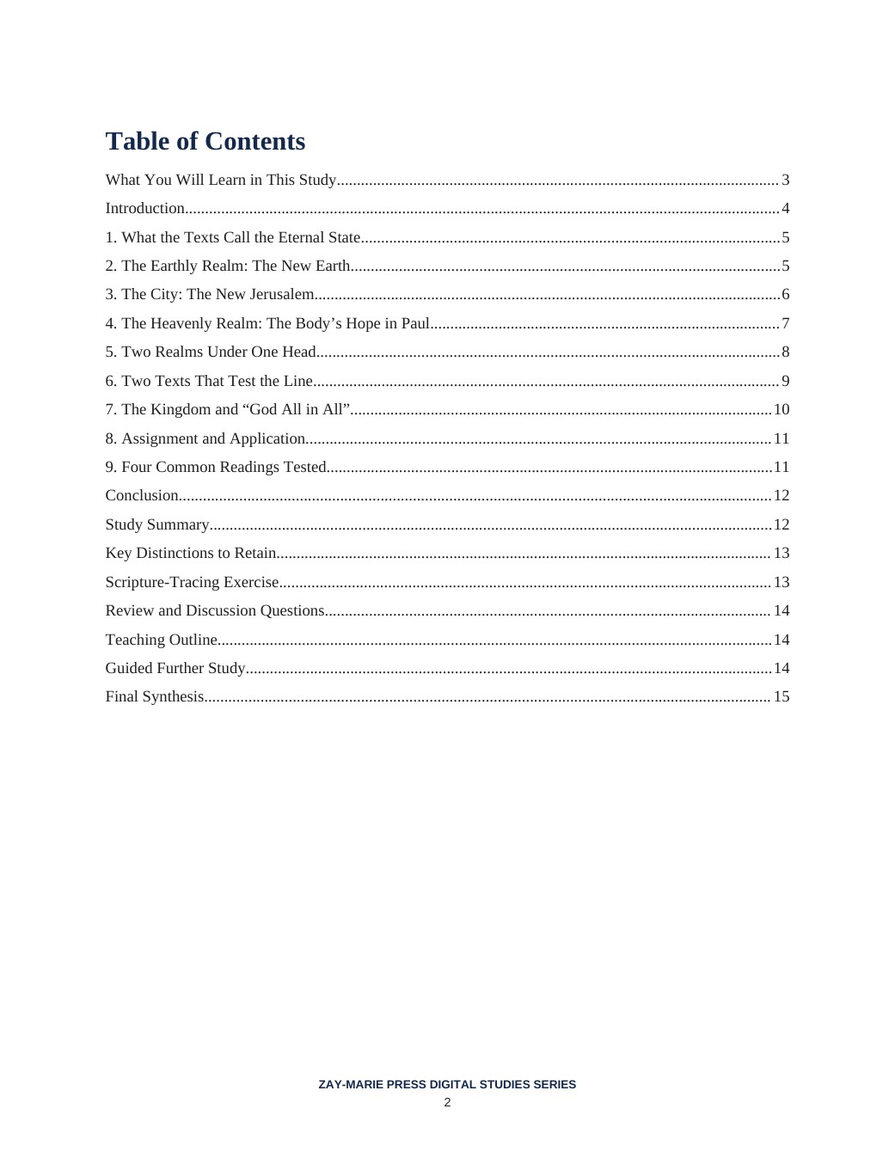
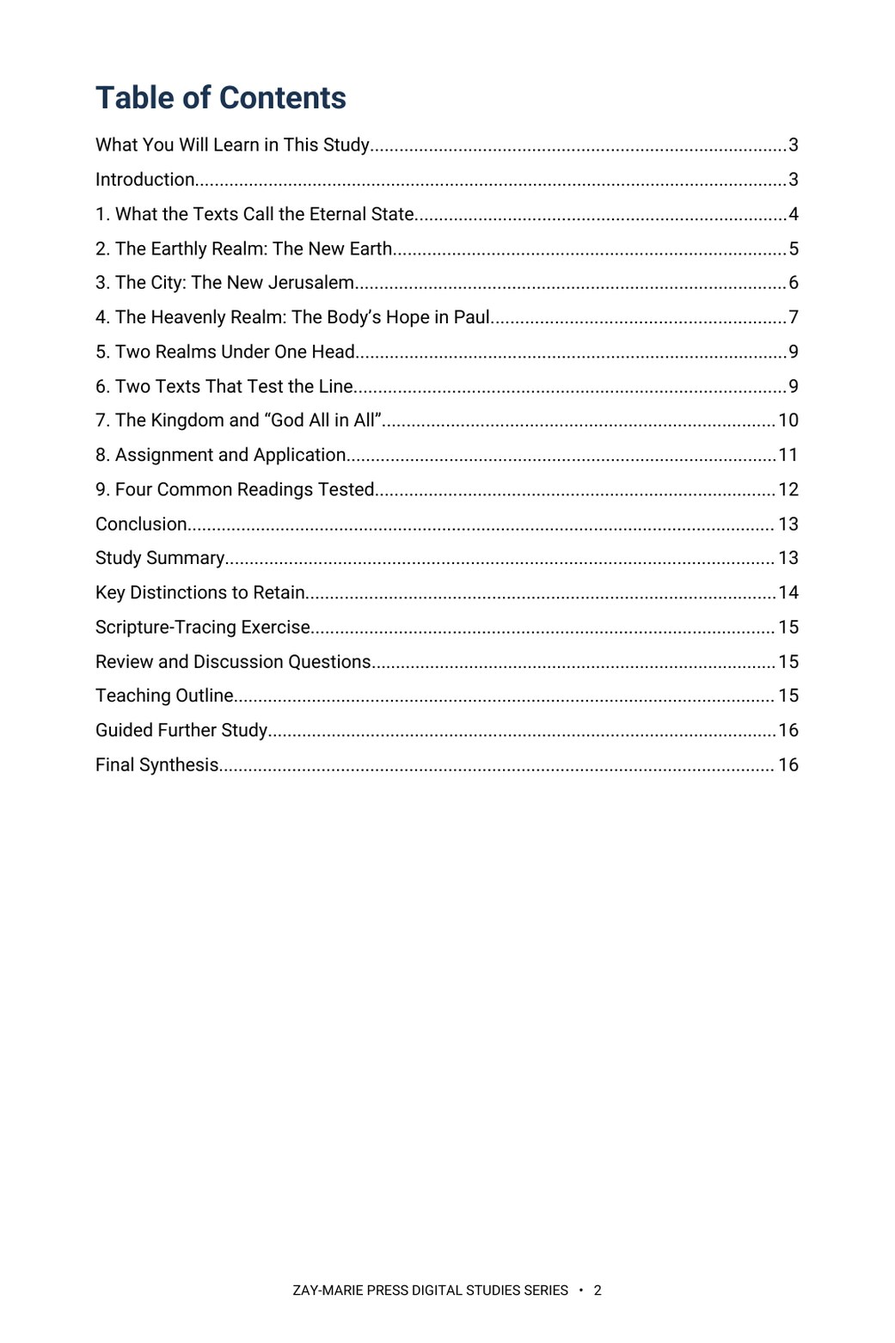
Study 69: rebuilt in Roboto at 10 pt, 17 pages; previews and trackers updated
Claude-Session: https://claude.ai/code/session_01HC7bs9KYP2scp4hCL6DkTp

diff --git a/study-69-the-eternal-state.html b/study-69-the-eternal-state.html
@@ -1,13 +1,13 @@
 <!doctype html>
-<html lang="en"><head><meta charset="utf-8"><meta name="viewport" content="width=device-width,initial-scale=1"><title>The Eternal State | Zay-Marie Press</title><meta name="description" content="Study 69 examines the eternal state — the new earth, the New Jerusalem, and the Body’s heavenly hope — asking where Scripture places Israel and the Body, what each passage states, and how the two realms are joined under Christ. Preview the 16-page digital study."><link rel="stylesheet" href="styles.css?v=20260921-4"><link rel="icon" type="image/png" href="assets/zay-marie-press-favicon.png"><style>
+<html lang="en"><head><meta charset="utf-8"><meta name="viewport" content="width=device-width,initial-scale=1"><title>The Eternal State | Zay-Marie Press</title><meta name="description" content="Study 69 examines the eternal state — the new earth, the New Jerusalem, and the Body’s heavenly hope — asking where Scripture places Israel and the Body, what each passage states, and how the two realms are joined under Christ. Preview the 17-page digital study."><link rel="stylesheet" href="styles.css?v=20260921-4"><link rel="icon" type="image/png" href="assets/zay-marie-press-favicon.png"><style>
 .study-detail-page{background:#fff;color:#252525}.detail-hero{background:linear-gradient(135deg,#f8f5ec,#e3ece2);padding:58px 0}.detail-hero-grid{display:grid;grid-template-columns:minmax(250px,.72fr) minmax(0,1.28fr);gap:58px;align-items:center}.detail-cover{max-width:390px;margin:auto}.detail-cover img{display:block;width:100%;height:auto;box-shadow:0 14px 36px rgba(8,45,69,.18)}.detail-hero h1{font-size:clamp(2.7rem,5vw,4.7rem);line-height:1.02;margin:8px 0 10px;color:#143823}.detail-subtitle{font-family:Georgia,serif;font-size:1.35rem;font-weight:700;color:#082d45;margin:0 0 7px}.detail-kicker{font-family:Georgia,serif;font-style:italic;font-size:1.05rem;color:#4a4a44;margin:0 0 22px}.detail-copy{font-size:1.08rem;line-height:1.65;max-width:760px}.detail-buyline{display:flex;align-items:center;gap:18px;flex-wrap:wrap;margin-top:25px}.detail-price{font-family:Georgia,serif;font-size:2rem;font-weight:700;color:#143823}.detail-format,.preview-card .page-no{font-family:Arial,sans-serif;font-size:.76rem;font-weight:700;letter-spacing:.1em;text-transform:uppercase;color:#176b3a}.detail-button{display:inline-block;background:#176b3a;color:#fff;padding:13px 22px;font-family:Arial,sans-serif;font-size:.8rem;font-weight:700;letter-spacing:.07em;text-transform:uppercase}.detail-button.pending{opacity:.72;cursor:default}.detail-section{padding:66px 0}.detail-section.soft{background:#f6f7f2}.detail-section.cream{background:#faf8f2}.detail-section h2{color:#143823;margin:6px 0 18px;font-size:clamp(2rem,3.4vw,3rem)}.detail-section .lead{max-width:920px;font-size:1.1rem;line-height:1.62}.study-distinction{max-width:920px;margin-top:28px;margin-bottom:28px;padding:26px 28px;background:#fff;border:1px solid #d8d1bf;border-left:4px solid #b8871c}.study-distinction h3{margin:0 0 10px;color:#143823}.study-distinction p{margin:0 0 14px;line-height:1.62}.study-distinction a{font-family:Arial,sans-serif;font-weight:700;color:#176b3a;text-decoration:none}.study-points{display:grid;grid-template-columns:repeat(3,1fr);gap:18px;margin-top:28px;margin-bottom:28px}.study-point,.scripture-card,.preview-card,.include-item{background:#fff;border:1px solid var(--line);text-align:left}.study-point{border-top:3px solid #176b3a;padding:22px}.study-point h3{color:#143823;margin:0 0 8px;font-size:1.2rem}.study-point p,.scripture-card p,.preview-card p,.include-item p{margin:0;line-height:1.55}.scripture-grid{display:grid;grid-template-columns:repeat(4,1fr);gap:14px;margin-top:24px;margin-bottom:24px}.scripture-card{padding:22px 20px;color:#143823}.scripture-card h3{margin:0 0 9px;font-family:Georgia,serif;font-size:1rem;line-height:1.35}.scripture-card p{font-size:.94rem;color:#45453f}.excerpt{max-width:900px;margin:28px auto;border-left:4px solid #b8871c;padding:10px 0 10px 28px}.excerpt blockquote{font-family:Georgia,serif;font-size:clamp(1.45rem,2.5vw,2rem);line-height:1.45;color:#143823;margin:0 0 16px}.excerpt p{line-height:1.6;margin:0}.preview-grid{display:grid;grid-template-columns:repeat(2,1fr);gap:20px;margin-top:28px;margin-bottom:28px}.preview-card{padding:18px;min-height:210px;box-shadow:0 7px 20px rgba(20,40,25,.05)}.preview-image-link{display:block;margin:0 0 18px}.preview-image-link img{display:block;width:100%;height:auto;border:1px solid #d8d1bf;box-shadow:0 8px 22px rgba(20,40,25,.1);transition:transform .18s ease,box-shadow .18s ease}.preview-image-link:hover img{transform:translateY(-2px);box-shadow:0 11px 28px rgba(20,40,25,.16)}.preview-card h3{color:#143823;margin:8px 0 10px}.preview-instruction{margin:10px 0 0;font-family:Arial,sans-serif;font-size:.78rem;letter-spacing:.04em;color:#5b5b55}.includes-grid{display:grid;grid-template-columns:repeat(4,1fr);gap:14px;margin-top:26px}.include-item{padding:22px 20px;color:#143823}.include-item h3{margin:0 0 9px;font-family:Arial,sans-serif;font-size:.86rem;line-height:1.35;letter-spacing:.02em}.include-item p{font-size:.94rem;color:#45453f}.final-buy{background:#082d45;color:#fff;border-top:4px solid #b8871c;padding:42px 48px;display:grid;grid-template-columns:1fr auto;gap:36px;align-items:center}.final-buy .eyebrow,.final-buy h2,.final-buy .detail-price{color:#fff}.final-buy h2{margin:7px 0 6px}.final-buy p{margin:0}.final-offer{text-align:center}.back-link{display:inline-block;margin-top:18px;color:#143823;font-family:Arial,sans-serif;font-weight:700;text-decoration:none}.preview-lightbox{position:fixed;inset:0;z-index:10000;display:none;align-items:flex-start;justify-content:center;background:rgba(8,22,16,.88);padding:24px;overflow:auto}.preview-lightbox.open{display:flex}.preview-lightbox img{display:block;width:auto;height:auto;max-width:none;box-shadow:0 18px 55px rgba(0,0,0,.4);background:#fff}.preview-lightbox-close{position:fixed;top:18px;right:24px;z-index:10001;width:46px;height:46px;border:1px solid rgba(255,255,255,.65);border-radius:50%;background:rgba(0,0,0,.55);color:#fff;font:32px/1 Arial,sans-serif;cursor:pointer}@media(max-width:900px){.detail-hero-grid{grid-template-columns:1fr;gap:34px}.detail-cover{max-width:330px}.study-points{grid-template-columns:repeat(2,1fr)}.scripture-grid,.includes-grid{grid-template-columns:repeat(2,1fr)}.preview-grid,.final-buy{grid-template-columns:1fr}.final-offer{text-align:left}}@media(max-width:560px){.detail-hero{padding:42px 0}.detail-section{padding:50px 0}.study-points,.scripture-grid,.includes-grid{grid-template-columns:1fr}.final-buy{padding:32px 24px}.detail-buyline{align-items:flex-start;flex-direction:column;gap:8px}.preview-lightbox{padding:58px 10px 24px}.preview-lightbox img{width:100%;max-width:100%;height:auto}} .detail-hero h1{font-size:clamp(2.1rem,4.2vw,3.7rem);line-height:1.08}</style></head><body class="study-detail-page">
-<header class="site-header"><div class="wrap nav"><a class="logo" href="index.html" aria-label="Zay-Marie Press home"><img src="assets/zay-marie-press-logo-hq.png" alt="Zay-Marie Press" width="420" height="238"></a><button class="menu-toggle" type="button" aria-expanded="false" aria-controls="primary-nav">MENU</button><nav aria-label="Primary navigation" class="primary-nav" id="primary-nav"><a href="index.html">HOME</a><a href="books.html">BOOKS</a><a href="series.html">SERIES</a><a class="active" aria-current="page" href="digital-studies.html">DIGITAL STUDIES</a><a href="biblical-hermeneutics-course.html">COURSE</a><a href="about.html">ABOUT</a><a href="resources.html">RESOURCES</a><a href="contact.html">CONTACT</a></nav></div></header><main><section class="detail-hero"><div class="wrap detail-hero-grid"><div class="detail-cover"><picture><source srcset="assets/study-69-cover.webp" type="image/webp"><img src="assets/study-69-cover.jpg" alt="The Eternal State cover"></picture></div><div><div class="eyebrow">STUDY 69 · DIGITAL STUDY</div><h1>The Eternal State</h1><p class="detail-subtitle">The Two-Realm Kingdom</p><p class="detail-kicker">Where does Scripture place Israel and the Body in the eternal state — and how are the two realms joined?</p><p class="detail-copy">Scripture ends where it begins, with heaven and earth. Some passages describe a renewed earth with houses, vineyards, and nations; others describe a hope laid up in heaven, where Christ sits. The way through is to read each passage where it stands, and to whom it speaks, before deciding how the pictures fit.</p><p class="detail-copy">This study begins with the four new-creation passages, follows the earthly setting, the city of Revelation 21, and Paul’s heavenly language, tests Galatians 4:26 and Hebrews 12:22–23, and reads the Kingdom passages side by side, holding to one order throughout: meaning first, assignment second, application third.</p><div class="detail-buyline"><span class="detail-price">$5.99</span><span class="detail-format">Digital PDF · 16 Pages</span><span class="detail-button pending" aria-disabled="true">Checkout Coming Soon</span></div></div></div></section>
+<header class="site-header"><div class="wrap nav"><a class="logo" href="index.html" aria-label="Zay-Marie Press home"><img src="assets/zay-marie-press-logo-hq.png" alt="Zay-Marie Press" width="420" height="238"></a><button class="menu-toggle" type="button" aria-expanded="false" aria-controls="primary-nav">MENU</button><nav aria-label="Primary navigation" class="primary-nav" id="primary-nav"><a href="index.html">HOME</a><a href="books.html">BOOKS</a><a href="series.html">SERIES</a><a class="active" aria-current="page" href="digital-studies.html">DIGITAL STUDIES</a><a href="biblical-hermeneutics-course.html">COURSE</a><a href="about.html">ABOUT</a><a href="resources.html">RESOURCES</a><a href="contact.html">CONTACT</a></nav></div></header><main><section class="detail-hero"><div class="wrap detail-hero-grid"><div class="detail-cover"><picture><source srcset="assets/study-69-cover.webp" type="image/webp"><img src="assets/study-69-cover.jpg" alt="The Eternal State cover"></picture></div><div><div class="eyebrow">STUDY 69 · DIGITAL STUDY</div><h1>The Eternal State</h1><p class="detail-subtitle">The Two-Realm Kingdom</p><p class="detail-kicker">Where does Scripture place Israel and the Body in the eternal state — and how are the two realms joined?</p><p class="detail-copy">Scripture ends where it begins, with heaven and earth. Some passages describe a renewed earth with houses, vineyards, and nations; others describe a hope laid up in heaven, where Christ sits. The way through is to read each passage where it stands, and to whom it speaks, before deciding how the pictures fit.</p><p class="detail-copy">This study begins with the four new-creation passages, follows the earthly setting, the city of Revelation 21, and Paul’s heavenly language, tests Galatians 4:26 and Hebrews 12:22–23, and reads the Kingdom passages side by side, holding to one order throughout: meaning first, assignment second, application third.</p><div class="detail-buyline"><span class="detail-price">$5.99</span><span class="detail-format">Digital PDF · 17 Pages</span><span class="detail-button pending" aria-disabled="true">Checkout Coming Soon</span></div></div></div></section>
 <section class="detail-section"><div class="wrap"><div class="eyebrow">ABOUT THIS STUDY</div><h2>Read the Passages in Order: Meaning, Assignment, Application</h2><p class="lead">You will collect the passages that speak of new heavens and a new earth, read the earthly setting in Isaiah, the Psalms, Jesus, and John, and follow the city of Revelation 21 by its own markers. You will trace Paul’s heavenly language, read Ephesians 1:10 and Colossians 1:16–20 for the way they join heaven and earth, and only then draw the assignment and application.</p><p class="lead">Readers who already own Study 5 (The Heavenly Calling), Study 57 (The Eternal Purpose of God), or Study 1 (The Bride of Christ) will recognize adjoining ground. Study 5 maps the Body’s whole heavenly calling, including blessings, citizenship, and purpose; this study takes the heavenly setting as one of two realms and does not re-derive the calling. Study 57 traces God’s purpose before the ages and its future fullness; this study reads Ephesians 1:10 only for the two realms it names. Study 1 establishes to whom the bridal identity belongs; this study notes that the city of Revelation 21 is called a bride and defers the question of the identity. The question this study alone answers: where does Scripture place Israel and the Body in the eternal state, what do the passages state about each realm, and how are the two joined under Christ?</p>
 <div class="study-distinction"><h3>How These Studies Relate</h3><p>Study 69 reads the eternal state across many passages. The studies below supply the neighboring ground it deliberately does not repeat.</p><p><a href="study-05-the-heavenly-calling.html">Study 5 — The Heavenly Calling</a> Map the Body’s whole heavenly calling; Study 69 takes the heavenly setting as one of two realms without re-deriving the calling.</p><p><a href="study-57-the-eternal-purpose-of-god.html">Study 57 — The Eternal Purpose of God</a> Trace God’s purpose before the ages and its future fullness; Study 69 reads Ephesians 1:10 only for the two realms it names.</p><p><a href="study-01-the-bride-of-christ.html">Study 1 — The Bride of Christ</a> Establish to whom the bridal identity belongs; Study 69 notes the city is called a bride and defers the identity.</p><p class="connection-guide-link"><a href="study-connections.html#study-69">Explore the full connection guide for Study 69 →</a></p></div>
 <div class="eyebrow">WHAT YOU’LL STUDY</div><h2>Trace the Passages Before You Conclude</h2><div class="study-points"><div class="study-point"><h3>The New-Creation Passages</h3><p>Collect the texts that speak of new heavens and a new earth (Isa. 65:17; 66:22; 2 Pet. 3:13; Rev. 21:1) and observe who speaks, to whom, and what each describes.</p></div><div class="study-point"><h3>The Earthly Setting</h3><p>Trace the markers of the earthly setting in Isaiah 65:17–25, Psalm 37:29, Matthew 5:5, and Revelation 21:1–4, noting the people, the place, and the conditions each passage names.</p></div><div class="study-point"><h3>The City by Its Markers</h3><p>Follow the city of Revelation 21 by its own markers, including the names on its gates and foundations, its bridal language, and its temple, alongside Revelation 3:12 and Hebrews 11:10, 16.</p></div><div class="study-point"><h3>Paul’s Heavenly Language</h3><p>Trace the heavenly language of Paul in Ephesians 1:3; 2:6; Philippians 3:20; Colossians 1:5; 3:1–4; and 2 Timothy 4:18 by asking where each passage places the hope and to whom it is written.</p></div><div class="study-point"><h3>Testing Two Texts and the Kingdom</h3><p>Test Galatians 4:26 and Hebrews 12:22–23 by their contexts, and read Ephesians 1:10, Colossians 1:16–20, and 1 Corinthians 15:24–28 beside Luke 1:33, Daniel 7, and Revelation 11:15 without forcing a resolution beyond the text.</p></div><div class="study-point"><h3>Testing Four Readings</h3><p>Apply a repeatable discipline for testing four common readings of the eternal state without transferring any passage to a different audience.</p></div></div>
 <div class="eyebrow">KEY SCRIPTURES</div><h2>Read the Word in Its Context</h2><div class="scripture-grid"><div class="scripture-card"><h3>Isaiah 65:17–25</h3><p>New heavens and a new earth, Jerusalem, and the LORD’s people.</p></div><div class="scripture-card"><h3>Matthew 5:1–12</h3><p>The meek, the earth, and the Kingdom, spoken to disciples in Galilee.</p></div><div class="scripture-card"><h3>Revelation 21:1–27</h3><p>The new heaven and earth, and the holy city with its gates and foundations.</p></div><div class="scripture-card"><h3>Ephesians 1:3–23</h3><p>Blessings in the heavenly places and the gathering of all things in Christ.</p></div><div class="scripture-card"><h3>Ephesians 2:4–7</h3><p>Raised up together and seated together in heavenly places.</p></div><div class="scripture-card"><h3>Philippians 3:17–21</h3><p>The commonwealth in heaven and the Saviour from thence.</p></div><div class="scripture-card"><h3>Galatians 4:21–31</h3><p>An allegory of two covenants, and Jerusalem which is above.</p></div><div class="scripture-card"><h3>1 Corinthians 15:24–28</h3><p>The end, the delivering up of the kingdom, and God all in all.</p></div></div>
 <div class="eyebrow">FROM THE STUDY</div><h2>Stated Before Organized</h2><div class="excerpt"><blockquote>Four passages name a new heaven and a new earth.</blockquote><p>Each is read for its speaker, its audience, and what it describes before any of them is joined to another.</p></div>
 <div class="eyebrow">A LOOK INSIDE</div><h2>Preview the Study Before You Purchase</h2><p class="preview-instruction">Click any page to enlarge it for reading.</p><div class="preview-grid"><div class="preview-card"><a class="preview-image-link" data-preview-lightbox href="assets/study-69-page-2.jpg"><img src="assets/study-69-page-2.jpg" alt="Study 69 table of contents"></a><div class="page-no">Interior Page 2</div><h3>Table of Contents</h3><p>See the full structure and the passages examined.</p></div><div class="preview-card"><a class="preview-image-link" data-preview-lightbox href="assets/study-69-page-3.jpg"><img src="assets/study-69-page-3.jpg" alt="Study 69 learning outcomes"></a><div class="page-no">Interior Page 3</div><h3>What You Will Learn</h3><p>See the study’s scope and reading procedure.</p></div><div class="preview-card"><a class="preview-image-link" data-preview-lightbox href="assets/study-69-page-5.jpg"><img src="assets/study-69-page-5.jpg" alt="Study 69 what the texts call the eternal state"></a><div class="page-no">Interior Page 5</div><h3>What the Texts Call the Eternal State</h3><p>Read the four new-creation passages before any of them is joined to another.</p></div></div>
-<div class="eyebrow">WHAT’S INCLUDED</div><h2>A Focused Study of the Eternal State</h2><div class="includes-grid"><div class="include-item"><h3>16-Page Digital PDF</h3><p>Approved cover and 15-page numbered interior.</p></div><div class="include-item"><h3>9 Teaching Sections</h3><p>A text-driven study from the new-creation passages to careful application.</p></div><div class="include-item"><h3>Callout Boxes</h3><p>Eight callout boxes marking the study’s key working rules.</p></div><div class="include-item"><h3>Comparison Tables</h3><p>Seven tables: the four passages, the earthly setting, the city, Paul’s heavenly passages, the two testing texts, the Kingdom passages, and four common readings.</p></div><div class="include-item"><h3>Scripture-Tracing Exercise</h3><p>Six guided traces through the passages the study relies on.</p></div><div class="include-item"><h3>Guided Further Study</h3><p>Five passage groups for deeper reading.</p></div><div class="include-item"><h3>Review Questions</h3><p>Eleven questions testing the study’s markers and method.</p></div><div class="include-item"><h3>Final Synthesis Exercise</h3><p>A written synthesis drawing the whole study together.</p></div></div>
-<div class="final-buy"><div><div class="eyebrow">STUDY 69 · DIGITAL STUDY</div><h2>The Eternal State</h2><p>16-page digital PDF · For personal use</p></div><div class="final-offer"><div class="detail-price">$5.99</div><span class="detail-button pending" aria-disabled="true">Checkout Coming Soon</span></div></div><a class="back-link" href="digital-studies.html">← Back to All Digital Studies</a></div></section>
+<div class="eyebrow">WHAT’S INCLUDED</div><h2>A Focused Study of the Eternal State</h2><div class="includes-grid"><div class="include-item"><h3>17-Page Digital PDF</h3><p>Approved cover and 16-page numbered interior.</p></div><div class="include-item"><h3>9 Teaching Sections</h3><p>A text-driven study from the new-creation passages to careful application.</p></div><div class="include-item"><h3>Callout Boxes</h3><p>Eight callout boxes marking the study’s key working rules.</p></div><div class="include-item"><h3>Comparison Tables</h3><p>Seven tables: the four passages, the earthly setting, the city, Paul’s heavenly passages, the two testing texts, the Kingdom passages, and four common readings.</p></div><div class="include-item"><h3>Scripture-Tracing Exercise</h3><p>Six guided traces through the passages the study relies on.</p></div><div class="include-item"><h3>Guided Further Study</h3><p>Five passage groups for deeper reading.</p></div><div class="include-item"><h3>Review Questions</h3><p>Eleven questions testing the study’s markers and method.</p></div><div class="include-item"><h3>Final Synthesis Exercise</h3><p>A written synthesis drawing the whole study together.</p></div></div>
+<div class="final-buy"><div><div class="eyebrow">STUDY 69 · DIGITAL STUDY</div><h2>The Eternal State</h2><p>17-page digital PDF · For personal use</p></div><div class="final-offer"><div class="detail-price">$5.99</div><span class="detail-button pending" aria-disabled="true">Checkout Coming Soon</span></div></div><a class="back-link" href="digital-studies.html">← Back to All Digital Studies</a></div></section>
 </main><div class="preview-lightbox" id="preview-lightbox" role="dialog" aria-modal="true" aria-label="Expanded study preview"><button class="preview-lightbox-close" type="button" aria-label="Close preview">×</button><img id="preview-lightbox-image" alt=""></div><footer class="site-footer"><div class="wrap footer-grid"><div class="footer-about"><h3>Zay-Marie Press</h3><p class="footer-tagline"><em>Where the Bible Means What It Says.</em></p><p>Zay-Marie Press is a Christian theological publisher dedicated to producing doctrinally precise, carefully structured biblical resources that equip pastors, teachers, and serious students with clarity, depth, and Scripture-anchored truth.</p><p><a href="https://zaymariepress.com">zaymariepress.com</a><br><a href="mailto:info@zaymariepress.com">info@zaymariepress.com</a></p></div><div class="footer-column"><h3>Explore</h3><div class="footer-links-stacked"><a href="books.html">Books</a><br><a href="series.html">Series</a><br><a href="biblical-hermeneutics-course.html">Course</a><br><a href="digital-studies.html">Digital Studies</a><br><a href="resources.html">Resources</a><br><a href="bible-book-summaries.html">Bible Book Summaries</a><br><a href="doctrinal-packets.html">Doctrinal Packets</a><br><a href="historical-drift.html">Historical Drift</a><br><a href="about.html">About</a><br><a href="contact.html">Contact</a></div></div><div class="footer-column"><h3>Reader Support</h3><div class="footer-links-stacked"><a href="reader-support.html#faq">FAQ</a><br><a href="reader-support.html#shipping-returns">Shipping &amp; Returns</a><br><a href="reader-support.html#digital-downloads">Digital Downloads</a><br><a href="reader-support.html#contact-support">Contact Support</a></div></div><div class="footer-column"><h3>Acts Overlap</h3><p><strong>Acts Overlap Theology Series</strong></p><p><em>Two Distinct Streams. One Overlap.</em></p><p><a href="series.html">Series Overview</a></p></div></div><div class="wrap footer-bottom">© 2026 Zay-Marie Press. All rights reserved.</div></footer><script src="site.js"></script><script>const lightbox=document.getElementById('preview-lightbox'),lightboxImage=document.getElementById('preview-lightbox-image'),closeLightbox=()=>{lightbox.classList.remove('open');lightboxImage.src='';};document.querySelectorAll('[data-preview-lightbox]').forEach(link=>link.addEventListener('click',event=>{event.preventDefault();lightboxImage.src=link.href;lightboxImage.alt=link.querySelector('img').alt;lightbox.classList.add('open');}));document.querySelector('.preview-lightbox-close').addEventListener('click',closeLightbox);lightbox.addEventListener('click',event=>{if(event.target===lightbox)closeLightbox();});document.addEventListener('keydown',event=>{if(event.key==='Escape')closeLightbox();});</script></body></html>

diff --git a/site.js b/site.js
@@ -62,7 +62,7 @@ const resourceModal=document.querySelector('#resource-modal'), resourceModalTitl
 if(resourceModal&&resourceModalTriggers.length){const closeResourceModal=()=>{resourceModal.hidden=true;document.body.classList.remove('resource-modal-open');lastResourceTrigger?.focus();};resourceModalTriggers.forEach(trigger=>trigger.addEventListener('click',()=>{lastResourceTrigger=trigger;if(resourceModalTitle)resourceModalTitle.textContent=trigger.dataset.title||'Resource';if(resourceModalDescription)resourceModalDescription.textContent=trigger.dataset.description||'';if(resourceModalLink){resourceModalLink.href=trigger.dataset.href||'#';resourceModalLink.textContent=trigger.dataset.linkText||'OPEN RESOURCE';}resourceModal.hidden=false;document.body.classList.add('resource-modal-open');resourceModalClose?.focus();}));resourceModalClose?.addEventListener('click',closeResourceModal);resourceModal.addEventListener('click',e=>{if(e.target===resourceModal)closeResourceModal();});document.addEventListener('keydown',e=>{if(e.key==='Escape'&&!resourceModal.hidden)closeResourceModal();});}
 
 /* Display the verified final-PDF page count at the primary purchase decision point. */
-const digitalStudyPageCounts={1:17,2:19,3:16,4:18,5:16,6:16,7:14,8:13,9:16,10:20,11:15,12:15,13:19,14:15,15:15,16:16,17:18,18:18,19:16,20:16,21:17,22:16,23:14,24:16,25:17,26:16,27:16,28:16,29:19,30:17,31:18,32:19,33:18,34:16,35:16,36:16,37:16,38:16,39:16,40:16,41:16,42:17,43:17,44:19,45:19,46:20,47:19,48:18,49:20,50:19,51:20,52:19,53:19,54:17,55:20,56:20,57:20,58:19,59:20,60:15,61:16,62:18,63:17,64:17,65:16,66:16,67:17,68:16,69:16,70:16,71:16};
+const digitalStudyPageCounts={1:17,2:19,3:16,4:18,5:16,6:16,7:14,8:13,9:16,10:20,11:15,12:15,13:19,14:15,15:15,16:16,17:18,18:18,19:16,20:16,21:17,22:16,23:14,24:16,25:17,26:16,27:16,28:16,29:19,30:17,31:18,32:19,33:18,34:16,35:16,36:16,37:16,38:16,39:16,40:16,41:16,42:17,43:17,44:19,45:19,46:20,47:19,48:18,49:20,50:19,51:20,52:19,53:19,54:17,55:20,56:20,57:20,58:19,59:20,60:15,61:16,62:18,63:17,64:17,65:16,66:16,67:17,68:16,69:17,70:16,71:16};
 const digitalStudyMatch=window.location.pathname.match(/\/study-(\d+)-/i);
 const digitalStudyFormat=document.querySelector('.detail-hero .detail-format');
 if(digitalStudyMatch&&digitalStudyFormat){const studyNumber=Number(digitalStudyMatch[1]),pageCount=digitalStudyPageCounts[studyNumber];if(pageCount)digitalStudyFormat.textContent=`Digital PDF · ${pageCount} Pages`;}

diff --git a/CLAUDE.md b/CLAUDE.md
@@ -23,7 +23,7 @@ These are kept in the repo at `controlling-documents/` and are the current versi
 - As of v1.50 (publisher directive, 2026-10-03), the **What You Will Learn in This Study** section is always bulleted, never set as running paragraphs, written into this file in the same pass (Master Standard Section 3 item 4, Section 6 structure line, Section 22): a list of bullet points, each describing one process, textual marker or interpretive discipline the reader will practice (Section 17 still governs what they may say); at most one short lead-in line may stand above the bullets (for example, “By the end of this study, you should be able to:”); the Study Goal callout and the Study Outline keep their own forms. It governs every new study and every study rebuilt or retrofitted from now on; earlier studies take it when reopened or when the publisher directs. In every study check (Step 1), report whether the section is bulleted. First applied to Study 43.
 **`controlling-documents/Digital_Studies_Relationship_Map_v1.39.md`** — records each study's distinct subject, its related studies, the eight priced six-study collections, the Paul's Missionary Journeys cross-reference map, and the five primary catalog categories (currently version 1.39, covers Studies 1–71; update it as new studies publish, bump the version number, rename the file to match, and log the change in its own version-history table — mirroring the Master Standard's `_vX.Y` filename convention). Check a proposed topic against it before recommending or writing a new study. (2026-09-28: the file was missing from this repo despite this note referencing it; replaced from the publisher's copy and bumped v1.15→v1.25 in the same pass. If this note ever again points to a version not present under `controlling-documents/`, ask the publisher for a copy rather than proceeding without the check.)
 - **`controlling-documents/Digital_Studies_Category_Standard_v1.1.md`** — FINAL and binding (publisher, 2026-10-01): the rules for the five primary catalog categories (Foundations, Israel & Prophecy, Body of Christ, Passages, Doctrinal Themes), the ordered decision procedure for new studies, the precedents, all 71 fixed assignments, and the cover-label form for each category. Read it before placing any card or cover label. Do not ask the publisher where a study belongs; apply the procedure and state the result. Only the publisher changes a ruling; then bump this Standard's version and filename, re-letter the cover, and update the Relationship Map.
-- **`controlling-documents/Doctrinal_Upgrade_Retrofit_Plan_v1.91.md`** — working tracker for retrofitting Studies 1–59 to the 2026-10-02 doctrinal upgrade (Framework/PAM v1.1, Master Standard v1.40, Rules 7–17): withdrawn-wording search keys, impact tiers, waves and the per-study method. Read it before continuing the retrofit in any session; update status, bump the version and rename the file as work proceeds.
+- **`controlling-documents/Doctrinal_Upgrade_Retrofit_Plan_v1.92.md`** — working tracker for retrofitting Studies 1–59 to the 2026-10-02 doctrinal upgrade (Framework/PAM v1.1, Master Standard v1.40, Rules 7–17): withdrawn-wording search keys, impact tiers, waves and the per-study method. Read it before continuing the retrofit in any session; update status, bump the version and rename the file as work proceeds.
 - **`controlling-documents/Doctrinal_Packet_Standard_v0.3.md`** — Doctrinal Packet Standard (DRAFT; §7 approved). Governs the separate Doctrinal Packets product strand (5-page interpretive PDFs per Bible book — a print-friendly cover as page 1 plus 4 content pages, $2.99, KJV, pilot: Genesis, live at `packet-genesis.html`, hub `doctrinal-packets.html`; site pages say "5 Pages", cover styles live in `packets.css`, Old Testament blue and New Testament soft pale green, hub listed in Bible order). **Preview rule (publisher directive, 2026-09-29, packets only):** previews show about one page's worth in two cropped views (top of page 1 through the anchor texts; the chart section) — never the exegesis, architecture, Mystery contrast, logic chain, outline, or closing. Master Standard §16/§17 still govern Digital Studies. Bump the version and rename the file as the Standard is finalized.
 - **`controlling-documents/Preview_Page_Spoiler_Retrofit_Audit_v1.4.md`** — working tracker for the Studies 1–60 preview-page conclusion-spoiler retrofit (see the section below). Read it before continuing that audit in any session; update its status fields and changelog, bump the version, and rename the file to match as the audit proceeds — same `_vX.Y` convention as the other controlling documents. As of v1.1, the website-side half was DONE: all 60 studies' "What You'll Study" text was judged against the rule (methodology documented in the file) and 22 points across 11 studies were rewritten and pushed; an unrelated Study 22 content bug (Study 21's content had leaked into it) was also found and fixed. As of v1.2, the publisher supplied Studies 1–60's interior production PDFs and the interior-PDF half was also surveyed (read-only): 10 studies (37, 41, 45, 47, 48, 49, 51, 52, 53, 54) were found to have at least one interior "What You Will Learn" violation, 50 studies were confirmed compliant, and the orphaned `assets/study-45-sanctification-under-grace.docx` (removed from the repo per the publisher in v1.0) was confirmed word-for-word identical to Study 45's actual production interior PDF content. As of v1.3, the publisher supplied editable DOCX sources for all 10 violating studies; all 15 violating points were rewritten and approved, delivered as corrected final PDFs, and — along the way — a second defect was found and fixed (Studies 47 and 48's source DOCX still had an unintegrated cover placeholder despite both being long-published live with real covers; fixed by inserting the existing approved cover art). The website's "What You Will Learn" preview image (`study-NN-page-3.jpg`) was regenerated from the corrected content for all 10 studies and pushed to `main` (commit `cea1859`), verified against a fresh clone. **The website side of this audit is now fully compliant for all 60 studies.** Outstanding: the publisher's purchasable interior PDF files themselves have corrected versions delivered, but distribution to existing purchasers was decided by the publisher on 2026-09-29: silent swap of the files behind the existing downloads, no reissue notice (recorded in the v1.4 changelog entry; the product files are not in this repo).
 

diff --git a/controlling-documents/Doctrinal_Upgrade_Retrofit_Plan_v1.92.md b/controlling-documents/Doctrinal_Upgrade_Retrofit_Plan_v1.92.md
@@ -184,3 +184,4 @@ Working tracker for correcting published studies to the Framework/PAM v1.1, Mast
 - v1.89 (2026-10-03): Study 66 rebuilt in Roboto at 10 pt on the current page from the publisher's PDF (no DOCX or approved FINAL supplied; text taken from the PDF word for word), 16 pages (cover plus 15; unchanged). Changes: What You Will Learn set as bullets under one lead-in (closing paragraph removed; bullet 7 reworded to a process line); nine callouts reduced to five (Setting Before Command, Authority Before Assignment, One Command and The Age Matthew Names became run-in paragraphs, wording unchanged); Teaching Outline numerals changed to 1–8; split end-of-the-age table merged; reader-facing wording: "framework of this series" (6.3, 7.1), "the framework's treatment of Acts 28" and "controlling framework" replaced. No withdrawn doctrinal wording found. pdffonts confirms Roboto only. Previews 2, 3 and 5 re-rendered.
 - v1.90 (2026-10-03): Study 67 rebuilt in Roboto at 10 pt on the current page from the publisher's PDF (no DOCX or approved FINAL supplied; text taken from the PDF word for word), 17 pages (cover plus 16; was 16). Changes: What You Will Learn set as bullets under one lead-in (closing paragraph removed; bullet 7 reworded to a process line); nine callouts reduced to five (Setting Before Title, Two Titles One Office, Stated Not Supplied and The Readers First became run-in paragraphs, wording unchanged); Teaching Outline numerals changed to 1–8; two split tables merged; reader-facing wording: "This fits the framework of this series" replaced by the Hebrews reader-facing sentence (letter's audience markers and the Jeremiah 31:31–34 covenant), "belongs with the first" changed to "is read here within the first" (interpretive reading, not a book-level assignment), "controlling framework" replaced. No withdrawn doctrinal wording found. pdffonts confirms Roboto only. Previews 2, 3 and 5 re-rendered; site.js and page text updated.
 - v1.91 (2026-10-03): Study 68 rebuilt in Roboto at 10 pt on the current page from the publisher's PDF (no DOCX or approved FINAL supplied; text taken from the PDF word for word), 16 pages (cover plus 15; unchanged). Changes: What You Will Learn set as bullets under one lead-in (closing paragraph removed; bullet 7 reworded to a process line); nine callouts reduced to five (Registers Before the Book, The Verb and Its Speakers, Found Written and The Lamb's Book became run-in paragraphs, wording unchanged); Teaching Outline numerals changed to 1–8; split section 6 table merged; standing wording applied: the reader-facing book sentence added after Hebrews 12:23 (4.3) and Philippians 4:3 (8.2), and "The Body of Christ does not appear in Revelation's prophetic scenes." added to 7.3; "controlling framework" replaced. No withdrawn doctrinal wording found. pdffonts confirms Roboto only. Previews 2, 3 and 5 re-rendered.
+- v1.92 (2026-10-03): Study 69 rebuilt in Roboto at 10 pt on the current page from the publisher's PDF (no DOCX or approved FINAL supplied; text taken from the PDF word for word), 17 pages (cover plus 16; was 16). Changes: What You Will Learn set as bullets under one lead-in (closing paragraph removed; bullet 7 reworded to a process line); nine callouts reduced to five (Stated Before Organized, The City by Its Markers, Where Paul Writes the Hope and Context First became run-in paragraphs, wording unchanged); Teaching Outline numerals changed to 1–8; split Kingdom-passages table merged; orphan imprint fixed with layout-only keep-with-next on the last Final Synthesis lines; reader-facing wording: four "Framework" references (8.1 x2, Conclusion, Study Summary) and "controlling framework" replaced; standing wording applied: "The Body of Christ does not appear in Revelation's prophetic scenes." added in 8.1 and the reader-facing book sentence added after Hebrews 12:22–23 (6.2). No withdrawn doctrinal wording found. pdffonts confirms Roboto only. Previews 2, 3 and 5 re-rendered; site.js and page text updated.

diff --git a/controlling-documents/Digital_Studies_PAM_Audit_v1.186.md b/controlling-documents/Digital_Studies_PAM_Audit_v1.186.md
@@ -415,3 +415,4 @@ Study 15 PDF not yet supplied. Typography: none of Studies 2, 3, 6, 8 is in EB G
 - v1.183 (2026-10-03): Study 66 rebuilt in Roboto at 10 pt, 16 pages (see Retrofit Plan v1.89).
 - v1.184 (2026-10-03): Study 67 rebuilt in Roboto at 10 pt, 17 pages (see Retrofit Plan v1.90).
 - v1.185 (2026-10-03): Study 68 rebuilt in Roboto at 10 pt, 16 pages (see Retrofit Plan v1.91).
+- v1.186 (2026-10-03): Study 69 rebuilt in Roboto at 10 pt, 17 pages; Framework references removed from reader text (see Retrofit Plan v1.92).
